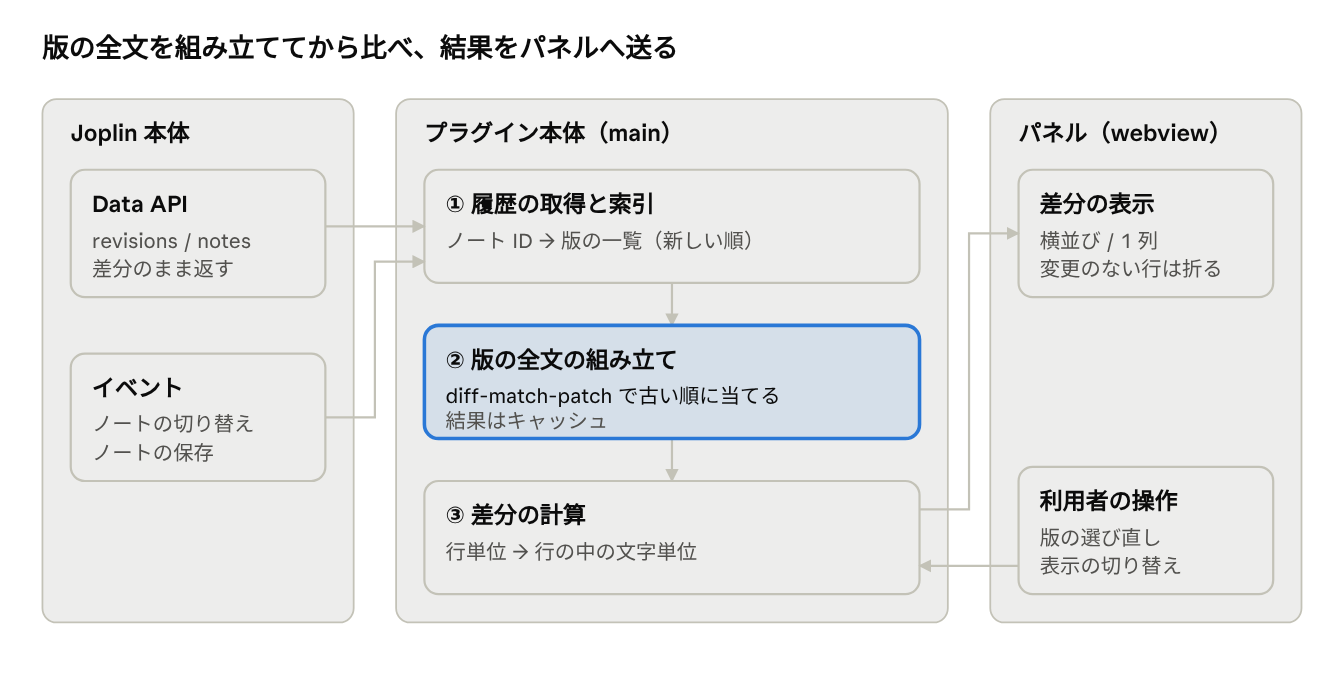
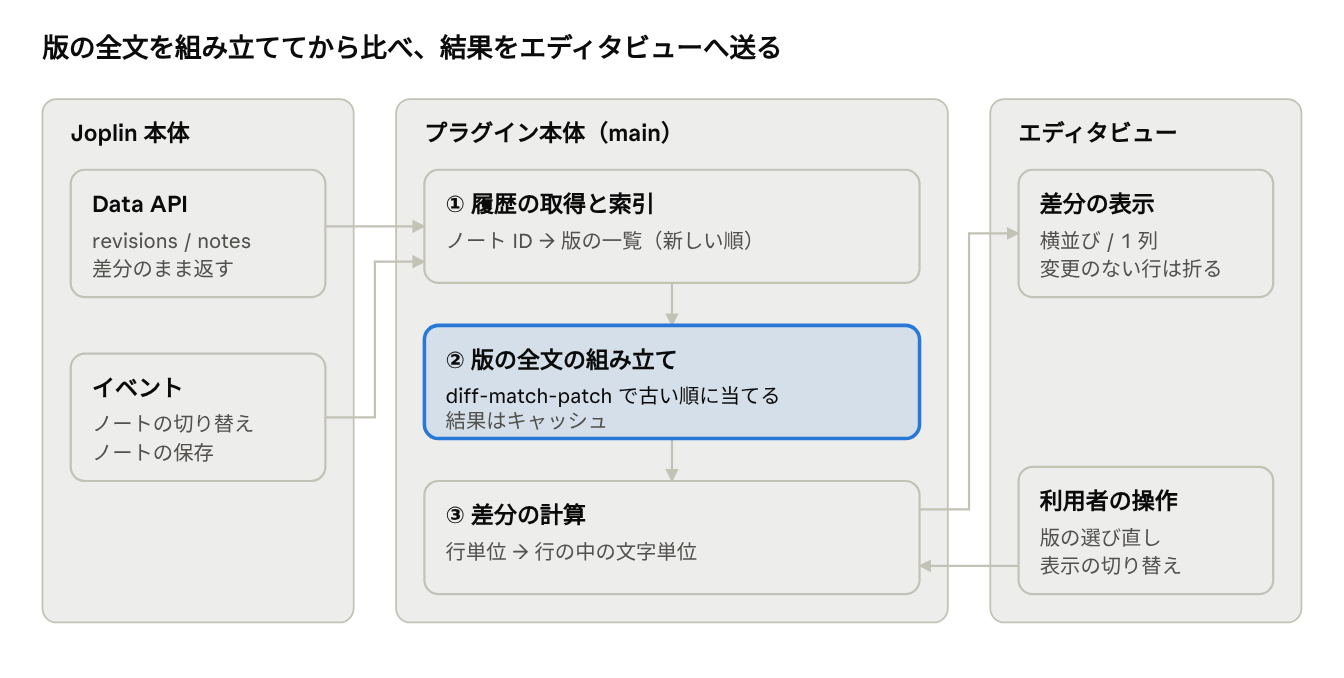
Spec: show the history diff in the editor area instead of a side panel
Rewrite sections 4 and 5 for the editor view: entry points including
Joplin's toggle editor button, closing and note changes, the restart
flicker as a limitation, and how the view is opened and closed around
the editor plugin API constraints found in v0.3.0-v0.3.7. Update the
other panel references, the architecture diagram and the README.

Changed region(s): [[0.375, 0.031, 0.5938, 0.0929], [0.75, 0.1858, 0.9062, 0.2168]]

diff --git a/README.md b/README.md
@@ -2,17 +2,19 @@
 
 A Joplin plugin to compare two revisions of a note and see what changed.
 
-> Status: in development (v0.2.0). Not published to the plugin repository yet.
+> Status: in development (v0.3.7). Not published to the plugin repository yet.
 
 ## Usage
 
 Open a note, then click the history button in the note toolbar, or choose **Tools > Show note history diff**.
 
-A panel next to the editor shows what changed:
+The history diff replaces the note editor, like Joplin's own note history view, and shows what changed:
 
 - If the note was edited after its latest revision: latest revision → current note.
 - If not (the latest revision equals the note): previous revision → latest revision.
-- Title changes are shown above the body. The panel shows side-by-side columns when it is at least 600px wide, and one column when narrower.
+- Title changes are shown above the body. The view shows side-by-side columns when it is at least 600px wide, and one column when narrower.
+
+Click **Close**, or open another note, to return to the editor. Joplin's "Toggle editors" button also switches between the editor and the history diff of the current note.
 
 Joplin saves a revision only when a note is changed at least 10 minutes (by default) after the previous revision, so the "previous" revision can be older than your last edit.
 
@@ -43,8 +45,8 @@ Unit tests (Jest) cover the code that does not depend on the Joplin API: `src/hi
 | `src/history/` | Revision index, patch handling, version rebuilding with checkpoints, cache |
 | `src/diff/` | Line diff |
 | `src/core/` | Which versions to compare (F1) and the version diff (F5) |
-| `src/ui/` | Panel rendering, diff views, UI strings (English / Japanese) |
-| `src/panelController.ts` | Panel, command, toolbar button and note events |
+| `src/ui/` | View rendering, diff views, UI strings (English / Japanese), webview script and style |
+| `src/editorViewController.ts` | Editor view (shown in the editor area), command, toolbar button and note events |
 | `src/dev/` | Verification prototype (to be removed before v1) |
 | `test/` | Unit tests and test fixtures |
 
